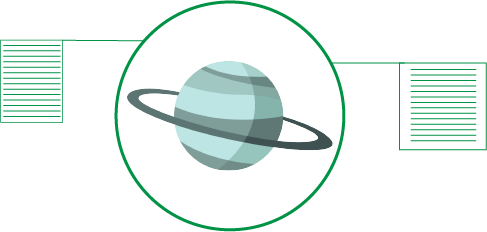
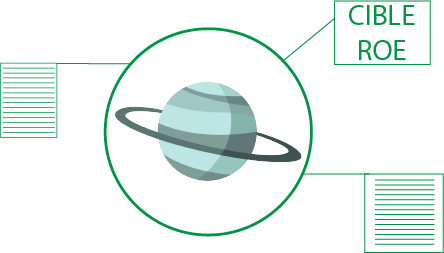
cible ROE + correction bugs animations

Changed region(s): [[0.0, 0.0, 1.0, 1.0]]

diff --git a/styles.css b/styles.css
@@ -77,7 +77,6 @@ section {
 /* SLIDE 13 */
 
 section#one-s13 {
-  height: 100vh !important;
   background-image: url("img/background-slide13.png");
   background-size: cover;
   background-repeat: no-repeat;
@@ -413,8 +412,8 @@ section#one-s16 {
 #espace-s16{
   opacity:0;
   text-align:center;
-  margin-top:60px;
-  margin-left:10%;
+  margin-top:5vh;
+  margin-left:10vw;
   height: 500px;
   width: 500px;
   float:left;
@@ -422,8 +421,6 @@ section#one-s16 {
 
 #espace-s16 img{
   margin-left: 10vw;
-  margin-top: 5vh;
-  width:80%;
   position:absolute;
 }
 

diff --git a/index.html b/index.html
@@ -75,8 +75,6 @@
   <section id="three-s99">
   </section>
 
-
-=======
 <!-- SLIDE 13 plan intérieur de la base + vue sur la fusée
     animation : fusée -->
 
@@ -122,8 +120,7 @@
 
 
   <!-- SLIDE 16 plan intérieur base + CDG qui montre une planète 
-      animation : planète qui tourne 
-      précision : à modifier en fonction des éléments fournis -->
+      animation : planète qui tourne -->
 
   <section id="one-s16">  
   <p id="texte1-s16"> Un passage à l'action réactif </p>

diff --git a/js/main.js b/js/main.js
@@ -325,7 +325,7 @@ var Aterrisage = new ScrollMagic.Scene({
 
 var controller16quatre = new ScrollMagic.Controller();
 
-var DeplacementTexte16bis = TweenLite.fromTo("#texte2-s16", 1, {x: 1600}, {x: -350, ease: Linear.easeNone})
+var DeplacementTexte16bis = TweenLite.fromTo("#texte2-s16", 1, {x: 1600}, {x: 0, ease: Linear.easeNone})
 
 var Aterrisage = new ScrollMagic.Scene({
     triggerElement: "#two-s16",
